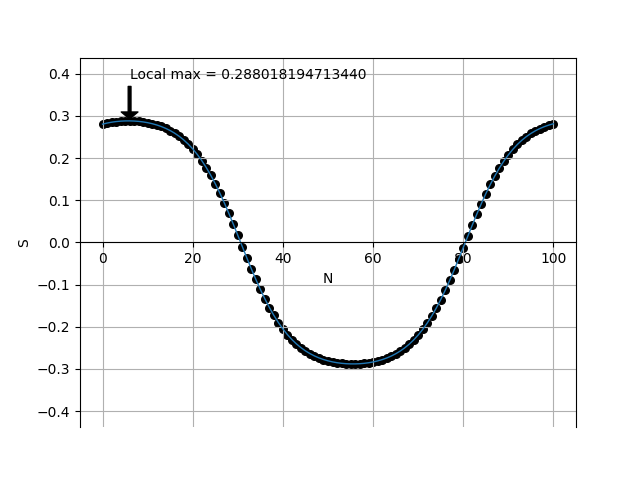
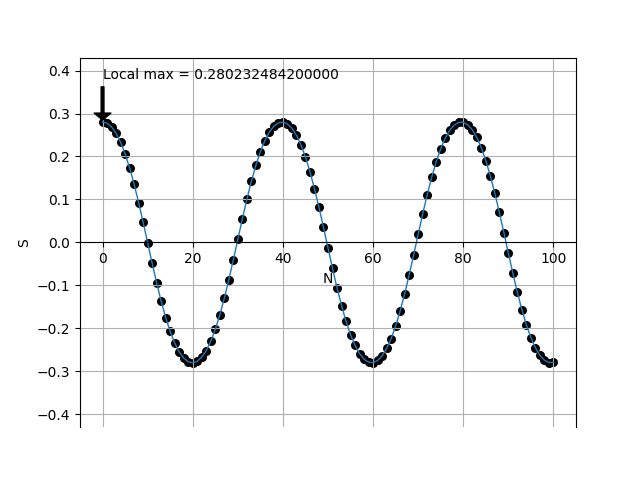
feat: added final version

Changed region(s): [[0.0625, 0.125, 0.9062, 0.7812], [0.0625, 0.8438, 0.9062, 0.875], [0.0625, 0.5938, 0.0938, 0.625]]

diff --git a/main/solution.py b/main/solution.py
@@ -1,50 +1,76 @@
-from decimal import *
 import _thread
+
+from decimal import *
 from math import fabs, sqrt, isnan
-from numba import prange
+from mpl_toolkits.mplot3d import Axes3D
+import multiprocessing as mp
 
 import matplotlib.pyplot as plt
+import mpl_toolkits.mplot3d.art3d as art3d
 
 N = 100
 DJ = Decimal("0.16")
 SQDJ = Decimal(sqrt(1 + DJ**2))
 OMEGA = Decimal("-0.28")
 B = Decimal("0.15")
-EPS = H = Decimal("0.000001")
+BETA = Decimal("1.5")
+EPS = Decimal("0.000001")
 S = [Decimal(0.0)] * (N+1)
 DELIMITER = 2_000_000_000  # double results[2000000000]
-s0 = Decimal("0.509457626013908")
-temp = Decimal(Decimal("0.4") / (DELIMITER))
+s0 = Decimal("0.2")
+temp = Decimal("0.4") / DELIMITER
 
 
 """Построение графиков"""
 
 
 def plot(x, y):
-    """x = [i for i in prange(x)]
-    xmax = x[y.index(max(y))]"""
+    x = [i for i in range(x)]
+    xmax = x[y.index(max(y))]
     fig, graph = plt.subplots()
     graph.scatter(x, y, 30, 'black')
     graph.plot(x, y, linewidth=1.0)
-    """graph.spines['bottom'].set_position('center') """
-    graph.set_ylabel('S')
-    graph.set_xlabel('Omega')
-    """graph.annotate(f'Local max = {max(y)}', xy=(xmax, max(y)), xytext=(xmax, max(y) + Decimal(0.10)),
-                   arrowprops=dict(facecolor='black',
-                                   shrink=0.05, headlength=5, width=2),
-                   )
-    graph.set_ylim(-max(y) - Decimal('0.15'), max(y) + Decimal('0.15'))"""
+    graph.spines['bottom'].set_position('center')  # type: ignore
+    graph.set_ylabel('E')
+    graph.set_xlabel('N')
     graph.grid(True)
+    graph.annotate(f'Local max = {max(y)}', xy=(xmax, max(y)), xytext=(xmax, max(
+        y) + Decimal(0.10)), arrowprops=dict(facecolor='black', shrink=0.05, headlength=5, width=2))
+    graph.set_ylim(-max(y) - Decimal('0.15'), max(y) + Decimal('0.15'))
+    plt.show()
+
+
+"""Построение 3D модели"""
+
+
+def plot3D(x, y):
+    x = [i for i in range(x)]
+    z = y*2
+    fig = plt.figure()
+    ax = fig.add_subplot(1, 1, 1, projection='3d')
+    for xi, yi, zi in zip(z, x, y):
+        if xi < 0:
+            line = art3d.Line3D(*zip((xi, yi, 0), (xi, yi, zi)),
+                                marker=11, markevery=(1, 1))
+        else:
+            line = art3d.Line3D(*zip((xi, yi, 0), (xi, yi, zi)),
+                                marker=10, markevery=(1, 1))
+        ax.add_line(line)
+    ax.set(xlabel="Sx", ylabel="N", zlabel="Sy")
+    ax.set_xlim3d(-0.8, 0.8)  # type: ignore
+    ax.set_ylim3d(0, 101)  # type: ignore
+    ax.set_zlim3d(-0.8, 0.8)  # type: ignore
+    ax.grid(False)
     plt.show()
 
 
 """Запись в файл"""
 
 
-def writef(S: list):
-    with open(f'e_N({N+1})_Omega{OMEGA}_B{B}_dj{DJ*100}_h{H}.nb', 'a+') as file:
+def writef(chain: list):
+    with open(f'e_N({N+1})_Omega{OMEGA}_B{B}_dj{DJ*100}.nb', 'a+') as file:
         file.write(
-            f'text=\"parameters: omega={OMEGA}, N(real)=({N+1}), B={B}, dj={DJ}, h={H}, S[N]={S[0]} (EDGE algorithm)\"\ndataS = {{')
+            f'text=\"parameters: omega={OMEGA}, N(real)=({N+1}), B={B}, dj={DJ}, S[N]={S[0]} (EDGE algorithm)\"\ndataS = {{')
         for i in range(N):
 
             file.write('{%s,%s},' % (i, (S[i])))
@@ -57,14 +83,14 @@ def writef(S: list):
 """Расчет цепочки"""
 
 
-def counter(start: Decimal, N: int, H=Decimal("0.0")):
+def counter(start: Decimal, N: int):
     S[0] = Decimal(str(start)).quantize(
         Decimal("1.000000000000000"), ROUND_HALF_UP)
-    a = OMEGA * S[0] + (2 * B * S[0] + H) * Decimal((sqrt(1 - S[0]**2)))
+    a = OMEGA * S[0] + (2 * B * S[0]) * Decimal((sqrt(1 - S[0]**2)))
     S[1] = ((-a * SQDJ * Decimal(sqrt(1 - S[0]**2)) + S[0] * Decimal(sqrt(1 + DJ**2 * Decimal(((1 - S[0]**2))) - Decimal(a**2)))
              ) / Decimal((1 + DJ**2 * Decimal(1 - S[0]**2)))).quantize(Decimal("1.000000000000000"), ROUND_HALF_UP)
     for i in range(1, N):
-        A = OMEGA * S[i] + (2 * B * S[i] + H) * Decimal(sqrt(1 - S[i]**2)) + S[i - 1] * SQDJ * Decimal(sqrt(1 - S[i]**2)) - S[i] * \
+        A = OMEGA * S[i] + (2 * B * S[i]) * Decimal(sqrt(1 - S[i]**2)) + S[i - 1] * SQDJ * Decimal(sqrt(1 - S[i]**2)) - S[i] * \
             Decimal(sqrt(1 - S[i-1]**2))
         S[i + 1] = ((-A * SQDJ * Decimal(sqrt(1 - S[i]**2)) + S[i] * Decimal(sqrt(Decimal(1 - A**2) + DJ**2 * Decimal((1 - S[i]**2))))
                      ) / Decimal((1 + DJ**2 * Decimal(1 - S[i]**2)))).quantize(Decimal("1.000000000000000"), ROUND_HALF_UP)
@@ -85,28 +111,40 @@ def check(last: Decimal, prelast: Decimal) -> bool:
 
 
 def get_breather(amount: int, N: int):
-    for i in prange(amount):
-        counter(s0 + temp * i, N+1)
+    for i in range(amount):
+        counter(s0 + temp * i, N)
         if check(S[N], S[N - 1]):
             print(s0 + temp * i)
-            counter(s0 + temp * i, N+1, H)
+            counter(s0 + temp * i, N)
             writef(S)
-            plot(S, N+1)
+            plot(N+1, S)
 
 
 """Расчет энергии"""
 
 
-def energy():
-    pass
+def energy(chain: list):
+    E = 0
+    E0 = Decimal("-2.35")
+    sum1, sum2, sum3, sum4 = 0, 0, 0, 0
+    for i in range(N):
+        sum1 = Decimal(chain[i]*chain[i+1])
+        sum2 = (1-chain[i]*chain[i])
+        sum3 = Decimal(sqrt((1 - chain[i]*chain[i])
+                            * (1 - chain[i+1]*chain[i+1])))
+        sum4 = Decimal(sqrt(1 - chain[i]*chain[i]))
+        E += (-Decimal(sqrt(1 + DJ**2))*sum1 + Decimal("0.15")
+              * sum2 - sum3 - Decimal("1.5")*sum4 - E0)/N
 
 
 def main():
     print(f'initial: {s0}, start max: {s0 + temp * DELIMITER}')
     print(f'Omega = {OMEGA}, eps = {EPS}\n')
-    get_breather(DELIMITER, N)
-    plot([-0.32, -0.28, -0.22, -0.2, -0.18], [0.165036570213893, 0.509457626013908,
-                                              0.736884391556128, 0.788864920607633, 0.833085737950537])
+    p = mp.Process(get_breather(DELIMITER, N))
+    mp.Pool(processes=4)
+    p.start()
+    energy(S)
+    plot3D(N + 1, S)
 
 
 if __name__ == "__main__":
